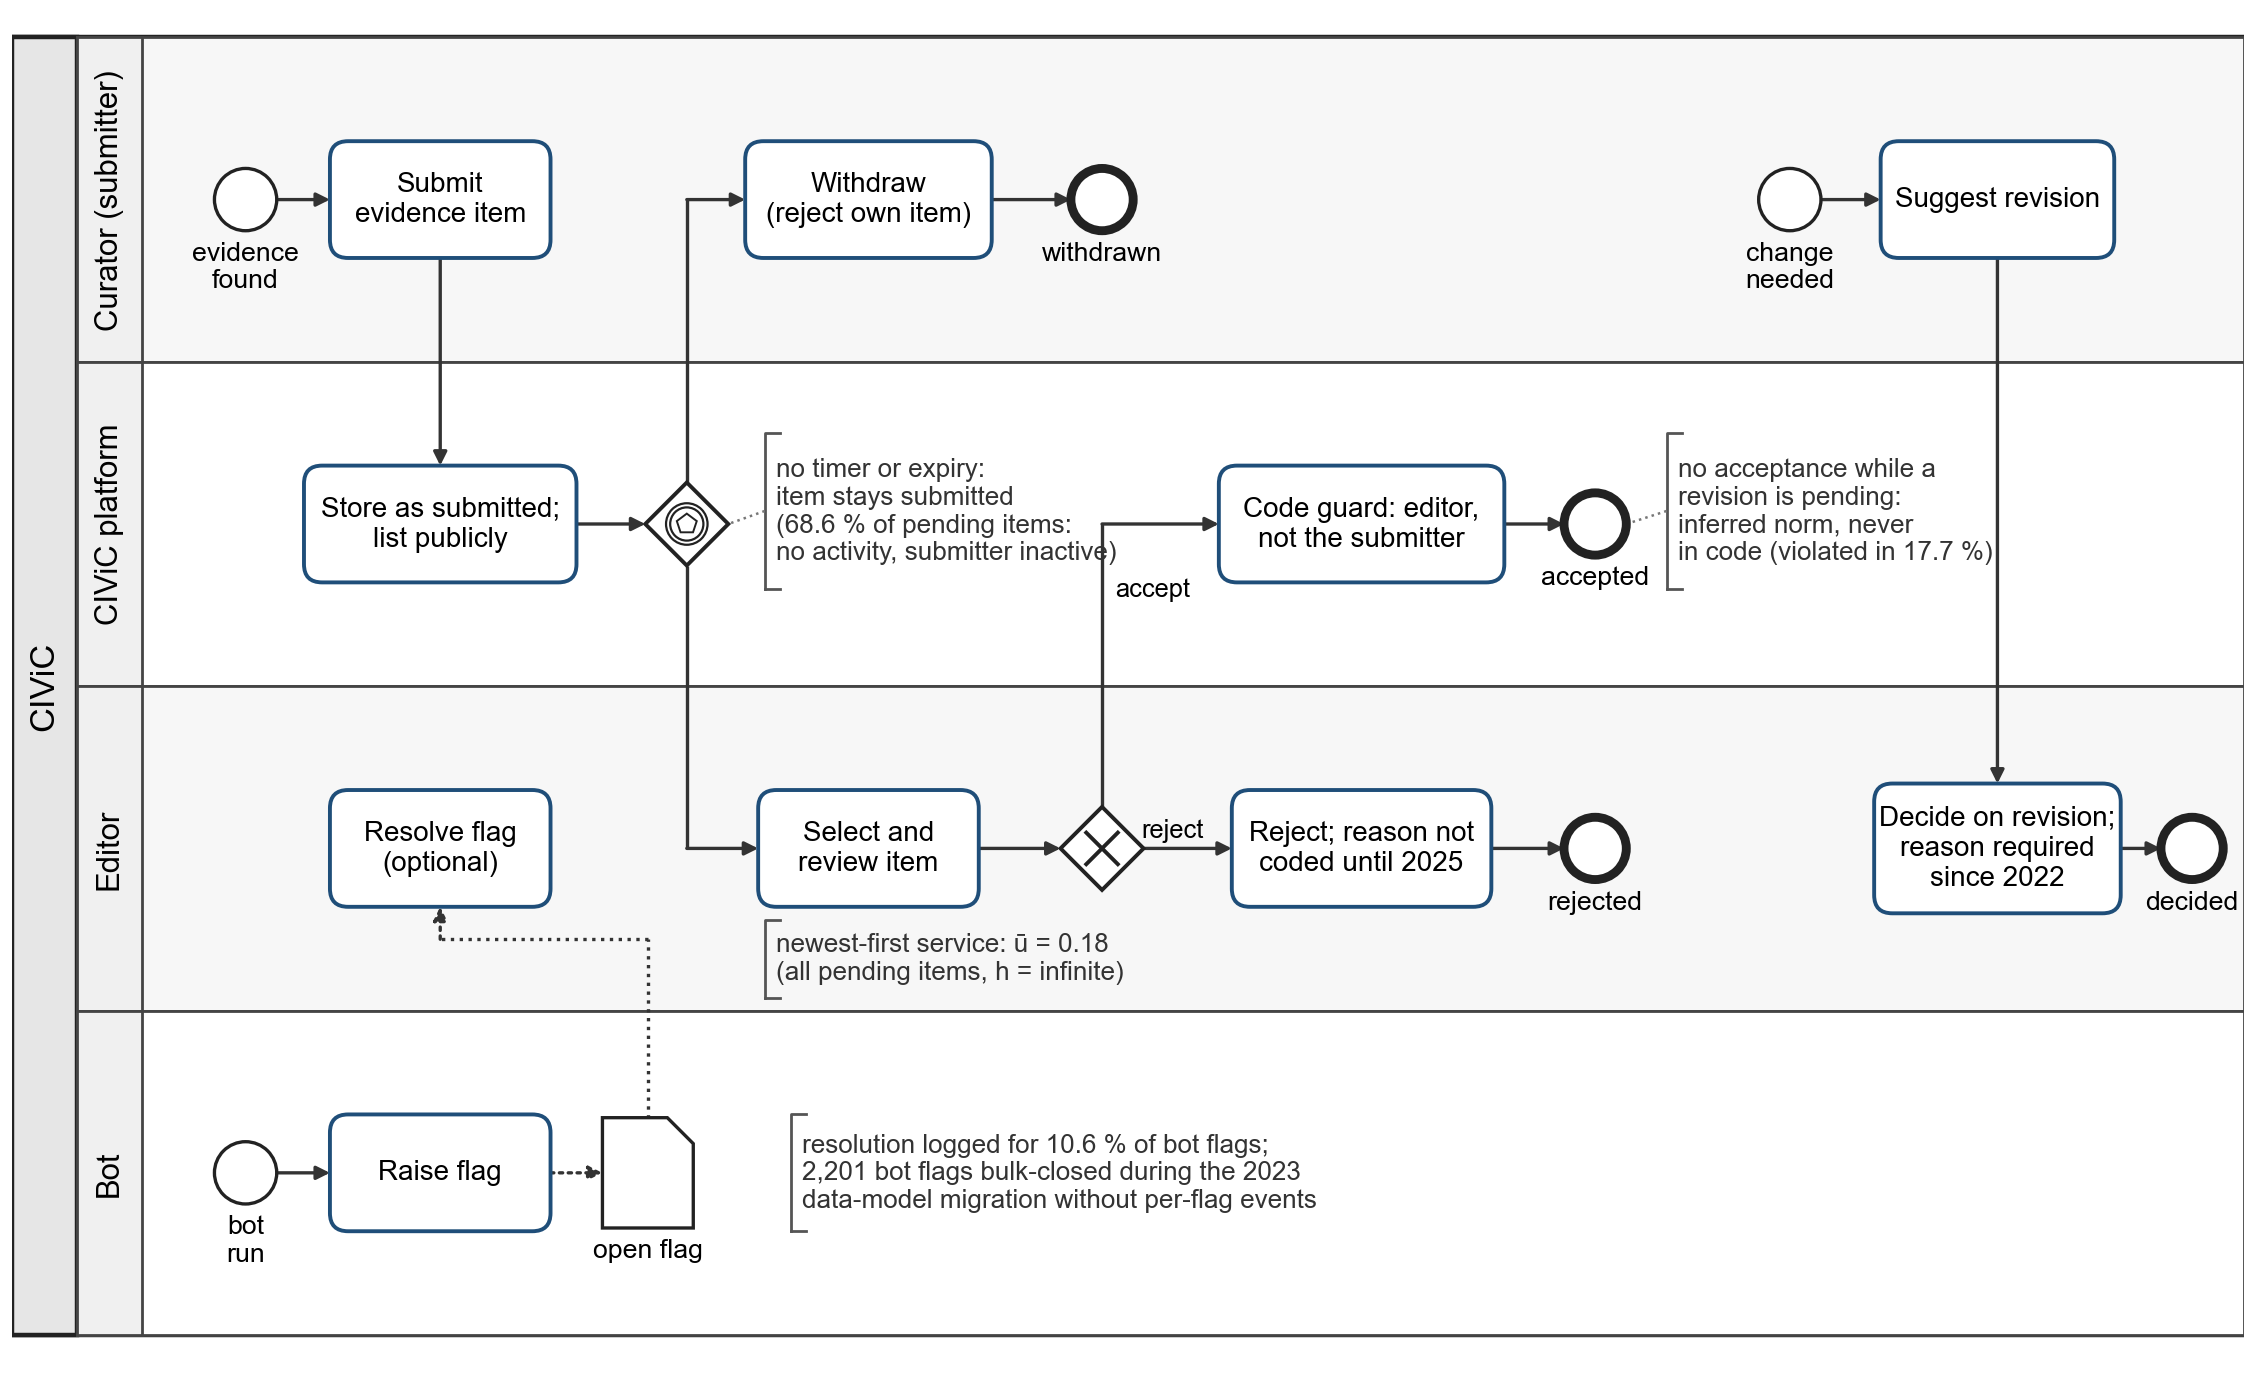
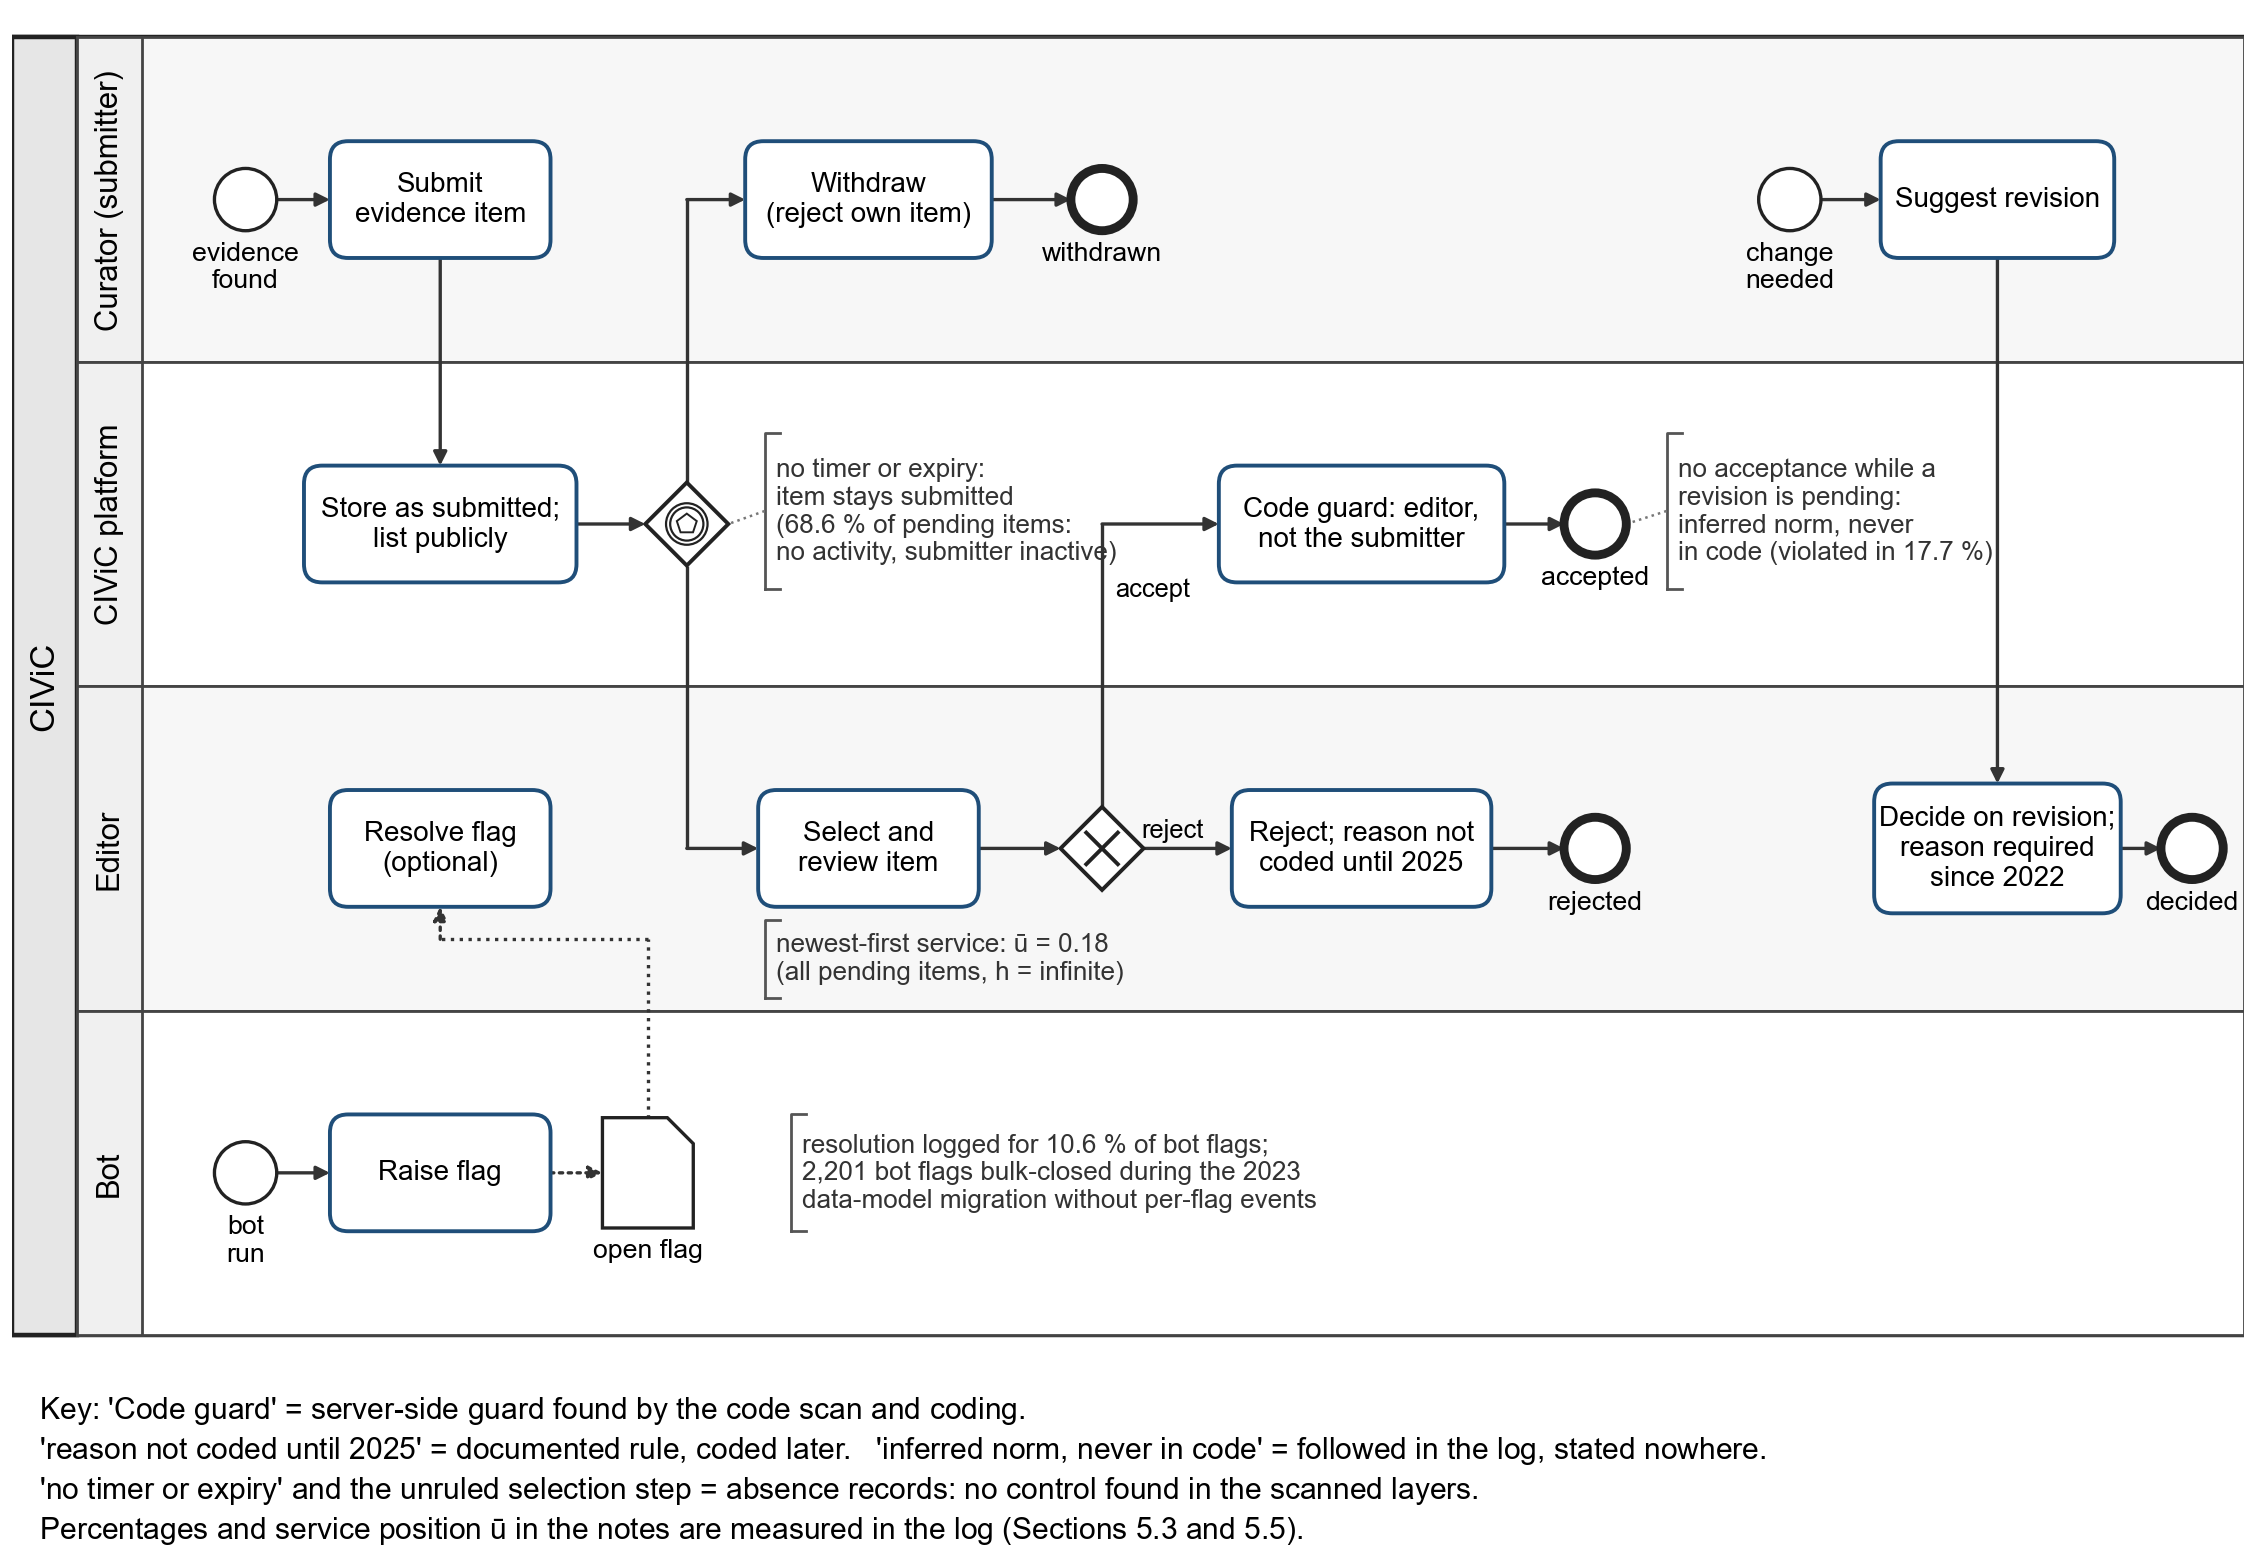
Add commit-level check of the monthly scan; new article title; rule catalogue gains evaluable_from_log column; Fig. 2 key

diff --git a/paper17/analysis/commit_level_v1.py b/paper17/analysis/commit_level_v1.py
@@ -1,0 +1,45 @@
+"""Commit-level check of the first platform version (15/10/2026): does the monthly-snapshot scan miss controls that lived for less than a month?
+  python commit_level_v1.py <civic-server bare clone>
+Runs the frozen extractors (t1d_extractor_v2 definitions, executed verbatim) on every first-parent commit, then lists control signatures
+whose presence runs never include a monthly snapshot (the last commit of a month) and runs shorter than 31 days. Writes res_commit_level_v1.json."""
+import json, os, sys, collections, datetime as dt
+from pathlib import Path
+
+H = Path(__file__).resolve().parent
+V1 = sys.argv[1]
+D5 = Path(os.environ.get("P17_PIPELINE", (__import__("os").environ.get("P17_PIPELINE", str(next(p for p in __import__("pathlib").Path(__file__).resolve().parents if (p / "pipeline").is_dir()) / "pipeline")) + "/"))) / "D5req"
+src = (D5 / "R7/t1d_extractor_v2.py").read_text(encoding="utf-8")
+defs = src[:src.index("out = {}")]
+sys.argv = ["x", V1, V1]
+ns = {"__file__": str(D5 / "R7/t1d_extractor_v2.py"), "__name__": "frozen_v2"}
+exec(compile(defs, "t1d_extractor_v2.py", "exec"), ns)
+m = ns["m"]
+
+log = m.git(V1, "log", "--first-parent", "--reverse", "--format=%H|%cI", "HEAD").splitlines()
+commits = [{"id": l.split("|")[0][:10], "ref": l.split("|")[0], "date": l.split("|")[1][:10]} for l in log]
+monthly = {}
+for c in commits: monthly[c["date"][:7]] = c["id"]          # last commit of each month
+monthly_ids = set(monthly.values())
+rows = ns["run"](V1, commits, m.V1DIRS, m.V1MODELS, "", "v1")
+order = {c["id"]: i for i, c in enumerate(commits)}; date = {c["id"]: c["date"] for c in commits}
+CONTROL_KINDS = {"GUARD", "ROLE", "ARGREQ", "ARGLEN", "AUTO", "POLICY", "VALID", "SCHED", "JOB"}
+short = []
+for r in rows:
+    if r["kind"] not in CONTROL_KINDS or r["stage"] in ("other",): continue
+    idx = sorted(order[i] for i in r["ids"])
+    runs, start = [], idx[0]
+    for a, b in zip(idx, idx[1:] + [None]):
+        if b is None or b != a + 1:
+            runs.append((start, a)); start = b
+    for s0, s1 in runs:
+        end_date = commits[s1 + 1]["date"] if s1 + 1 < len(commits) else commits[s1]["date"]
+        days = (dt.date.fromisoformat(end_date) - dt.date.fromisoformat(commits[s0]["date"])).days
+        seen_monthly = any(commits[k]["id"] in monthly_ids for k in range(s0, s1 + 1))
+        if not seen_monthly:
+            short.append({"kind": r["kind"], "stem": r["stem"], "key": r["key"][:100], "stage": r["stage"], "from": commits[s0]["date"],
+                          "removed": end_date, "days": days, "commits": s1 - s0 + 1})
+res = {"commits": len(commits), "monthly_snapshots": len(monthly_ids), "control_signatures": sum(1 for r in rows if r["kind"] in CONTROL_KINDS and r["stage"] != "other"),
+       "runs_missed_by_monthly_snapshots": short}
+json.dump(res, open(H / "res_commit_level_v1.json", "w", encoding="utf-8"), indent=1)
+print(json.dumps({k: v for k, v in res.items() if k != "runs_missed_by_monthly_snapshots"}), "| missed runs:", len(short))
+for s in short: print(" ", s)

diff --git a/paper17/figures/make_fig2_r10.py b/paper17/figures/make_fig2_r10.py
@@ -31,6 +31,27 @@ def main():
     ns = dict(vars(isad))
     exec(src, ns)
     ns["fig_bpmn_asis"]()
+    add_key()
+
+
+def add_key(src_png="fig2_bpmn_asis_v3.png", out_png="fig2.png"):
+    """15/10/2026: key strip under the figure stating the epistemic status of the annotations (review: provenance of each element)."""
+    from PIL import Image, ImageDraw, ImageFont
+    im = Image.open(src_png).convert("RGB")
+    w, h = im.size
+    strip = 190
+    canvas = Image.new("RGB", (w, h + strip), "white"); canvas.paste(im, (0, 0))
+    d = ImageDraw.Draw(canvas)
+    try: font = ImageFont.truetype("arial.ttf", 30)
+    except OSError: font = ImageFont.load_default()
+    lines = ["Key: 'Code guard' = server-side guard found by the code scan and coding.",
+             "'reason not coded until 2025' = documented rule, coded later.   'inferred norm, never in code' = followed in the log, stated nowhere.",
+             "'no timer or expiry' and the unruled selection step = absence records: no control found in the scanned layers.",
+             "Percentages and service position ū in the notes are measured in the log (Sections 5.3 and 5.5)."]
+    for i, t in enumerate(lines):
+        d.text((40, h + 18 + i * 40), t, fill="black", font=font)
+    canvas.save(out_png)
+    print("fig2.png written with key")
 
 
 if __name__ == "__main__":

diff --git a/TABLE_MAP.md b/TABLE_MAP.md
@@ -24,6 +24,7 @@ Printed values are the stored values cut off (not rounded) at the printed precis
 | Age hazard 0.64; frailty 0.74 / 0.73 | `D/R5/c_age.py`; `D/R5/c2_item_frailty.py` | `D/R5/res_c_age.json`; `D/R5/res_c2_item_frailty.json` |
 | Intensity 3.41-fold | `D/R5/d_intensity.py`; intervals `D/R7/t6_its_2025.py` | `D/R5/res_d_intensity.json`; `D/R7/res_t6_its.json` |
 | H2 (§6.1) | `P/analysis/h2_test.py` | `P/analysis/res_h2_test.json` |
+| Commit-level check of the monthly scan | `P/analysis/commit_level_v1.py` (frozen extractor on every first-parent commit of civic-server; needs a bare clone) | `P/analysis/res_commit_level_v1.json` |
 | Held-out seeded test | `P/analysis/seeded_v3/plant_and_score.py`, `posthoc_attribution.py` | `res_seeded_v3.json`, `res_seeded_v3_posthoc.json` |
 | Canto | blind coders (instructions in `P/analysis/blind_recoding_canto/`) | `coder_A.json`, `coder_B.json`, `summary.json` |
 
@@ -55,13 +56,14 @@ Printed values are the stored values cut off (not rounded) at the printed precis
 | Fig. S3 lifecycles | `P/figures/make_figures_p17.py` (`fig2`) | `D/A2/out/discovery.json` |
 | Fig. S4 flattening | `P/figures/make_figures_p17.py` (`fig5`) | `D/W3/res_t4_sop.json` |
 | Reordering bounds (S4) | `D/R5/sim/e_sim.mjs`; check `D/R3_civic/r3_t2_sim_checks.py`; observed share `D/R7/t7_numbers.py` | `D/R5/res_e_bounds.json`; `res_r3_t2.json`; `res_t7_numbers.json` |
-| S21 trackers: sample, inference, corroboration | `D/W2/analyze_w2.py`; `D/R3_trackers/r3_t1_t2.mjs`, `r3_t5_corrob.mjs`; frames `K/run_gh.mjs`; label timing `D/R5/g_period.py` | `D/W2/out/results_w2.json`; `D/R3_trackers/*.json`; `K/results_gh.json`; `D/R5/res_g_period.json` |
-| S22 comparison systems | assembled from `res_h_numbers.json`, `results_w2.json`, `res_g_period.json`, `res_t3.json`, `r3_t4_u_null.json`, `D/R5_wikidata/results*.json`, `res_t6_numbers.json`, `K/results_gh.json` | as listed |
-| S23 tracker regime measures | `D/W2/analyze_w2.py`; `D/R3_trackers/r3_t3_hpo_bursts.py`, `r3_t4_u_null.py`, `r3_t4b_self.py` | `results_w2.json`; `r3_t3_bursts.json`, `r3_t4_u_null.json`, `r3_t4b_self.json` |
-| S24 acceptance within 365 days | `D/R5/g_period.py` | `res_g_period.json` |
-| S25 discovery and conformance; S26 declarative constraints | `D/W2/analyze_w2.py` | `D/W2/out/results_w2.json` |
-| S27 Wikidata census | `D/R5_wikidata/s1`–`s7` (`.mjs`), `s6_u.py` | `D/R5_wikidata/results.json`, `results_u.json` |
-| S28 Canto controls | blind coders | `P/analysis/blind_recoding_canto/` |
-| S29 design principles; Figs. S5, S6 | design artefacts (`P/figures/make_figures_isad.py`) | none |
+| S21 cases: data, protocol steps and scope of inference | Section 4.1 of the article | none |
+| S22 trackers: sample, inference, corroboration | `D/W2/analyze_w2.py`; `D/R3_trackers/r3_t1_t2.mjs`, `r3_t5_corrob.mjs`; frames `K/run_gh.mjs`; label timing `D/R5/g_period.py` | `D/W2/out/results_w2.json`; `D/R3_trackers/*.json`; `K/results_gh.json`; `D/R5/res_g_period.json` |
+| S23 comparison systems | assembled from `res_h_numbers.json`, `results_w2.json`, `res_g_period.json`, `res_t3.json`, `r3_t4_u_null.json`, `D/R5_wikidata/results*.json`, `res_t6_numbers.json`, `K/results_gh.json` | as listed |
+| S24 tracker regime measures | `D/W2/analyze_w2.py`; `D/R3_trackers/r3_t3_hpo_bursts.py`, `r3_t4_u_null.py`, `r3_t4b_self.py` | `results_w2.json`; `r3_t3_bursts.json`, `r3_t4_u_null.json`, `r3_t4b_self.json` |
+| S25 acceptance within 365 days | `D/R5/g_period.py` | `res_g_period.json` |
+| S26 discovery and conformance; S27 declarative constraints | `D/W2/analyze_w2.py` | `D/W2/out/results_w2.json` |
+| S28 Wikidata census | `D/R5_wikidata/s1`–`s7` (`.mjs`), `s6_u.py` | `D/R5_wikidata/results.json`, `results_u.json` |
+| S29 Canto controls | blind coders | `P/analysis/blind_recoding_canto/` |
+| S30 design principles; Figs. S5, S6 | design artefacts (`P/figures/make_figures_isad.py`) | none |
 
 Values derived by hand from stored counts (no separate result field): the binomial p of change points, 87 % (65 of 74), Canto 28 of 45 and Cohen's κ, the scan's 18 of 30 controls, GO 75 of 75, tracker stocks 4.3 % and 2.8 %, the 22 smaller-batch deletions, the observed 29.2 % within 365 days in S4.

diff --git a/README.md b/README.md
@@ -1,6 +1,6 @@
 # Curation rule sets: reproducibility package
 
-Code, rule catalogue, coder outputs and aggregate results for the article *Which Stages Does the Code Control? Conformance Against Time-Indexed Rule Sets in Expert-Gated Knowledge Curation* (Van Thieu and Nhan T. Cao).
+Code, rule catalogue, coder outputs and aggregate results for the article *Conformance Against the Code in Force: Time-Indexed Rule Sets and Control Coverage in Expert-Gated Knowledge Curation* (Van Thieu and Nhan T. Cao).
 
 The package lets a reader (1) rerun the code scan of Algorithm 1 on the public CIViC repositories, (2) rebuild the CIViC object-centric log and the measures from the public APIs, (3) check every table against the stored aggregate results, and (4) rerun the held-out seeded test of the extractors.
 
